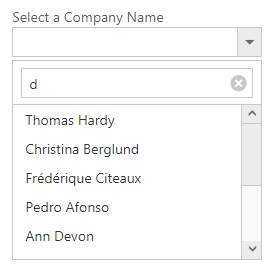
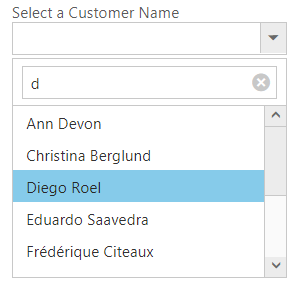
Filtering topic has been added.

Changed region(s): [[0.0291, 0.0, 0.9891, 0.9635], [0.0873, 0.7299, 0.5236, 0.7883], [0.0873, 0.8467, 0.5236, 0.9051]]

diff --git a/js-toc.html b/js-toc.html
@@ -486,7 +486,7 @@
             <li><a href="/js/dropdownlist/TemplateSupport">Template Support</a></li>
             <li><a href="/js/dropdownlist/Customization">Customization</a></li>
             <li><a href="/js/dropdownlist/SettingDimension">Setting Dimension</a></li>
-			<li><a href="/js/dropdownlist/ServerFiltering">Server Filtering</a></li>
+			<li><a href="/js/dropdownlist/Filtering">Filtering</a></li>
             <li><a href="/js/dropdownlist/StatePersistance">State Persistance</a></li>
             <li><a href="/js/dropdownlist/Localization">Localization</a></li>
             <li><a href="/js/dropdownlist/Accessibility">Accessibility</a></li>

diff --git a/js/DropDownList/Filtering.md b/js/DropDownList/Filtering.md
@@ -1,0 +1,154 @@
+---
+layout: post
+title: Searching in the DropDownList widget for Syncfusion Essential JS
+description: Description about searching in the DropDownList widget for Syncfusion Essential JS
+platform: js
+control: DropDownList
+documentation: ug
+keywords: DropDownList, dropdown, Search, Incremental Search, Filter Search, Server Filtering
+api: /api/js/ejdropdownlist
+---
+
+# Search
+
+Items are searched based on the keyed in values to the textbox. There are two types of searches,
+
+* Incremental Search
+* Filter Search
+
+## Incremental Search
+
+Selects the item in the popup list based on the keyed in value. If the time taken to type exceeds 1000 milliseconds then filtered items will be reset based on the current input value.For this search, [enableIncrementalSearch](https://help.syncfusion.com/api/js/ejdropdownlist#members:enableincrementalsearch) property must be enabled. By default this mode of search is enabled. Incremental search can be case sensitive or case insensitive. To make case sensitive, you can use [caseSensitiveSearch](https://help.syncfusion.com/api/js/ejdropdownlist#members:casesensitivesearch) property.
+
+{% highlight html %}
+
+    <input type="text" id="dropdown1" />
+                
+{% endhighlight %}
+
+{% highlight javascript %}
+
+     $(function() {
+        var items = [{
+            text: "Adams",
+            value: "emp1"
+        }, {
+            text: "James",
+            value: "emp2"
+        }, {
+            text: "Maria",
+            value: "emp3"
+        }, {
+            text: "Jessica",
+            value: "emp4"
+        }, {
+            text: "Jenneth",
+            value: "emp5"
+        }];
+        $('#dropdown1').ejDropDownList({
+            dataSource: items,
+            fields: {
+                text: "text",
+                value: "value"
+            },
+            enableIncrementalSearch: true,
+            caseSensitiveSearch: true
+        });
+    });
+	
+{% endhighlight %}
+
+![](Functionalities_images/Functionalities_img8.jpeg)
+
+## Filter search
+
+You can quickly locate specific item within a large data source by filtering matches with a search box. A text box appears in the popup list for searching when [enableFilterSearch](https://help.syncfusion.com/api/js/ejdropdownlist#members:enablefiltersearch) property is enabled. By default, filtering returns the matched items list based on text in search textbox. 
+You can configure the search filter by using [filterType](https://help.syncfusion.com/api/js/ejdropdownlist#members:filtertype) property. There is two types of filter options,
+
+* Starts With 
+* Contains
+
+N> Items are filtered based on “contains” filter type by default.
+
+{% highlight html %}
+
+    <input type="text" id="dropdown1" />
+                
+{% endhighlight %}
+
+{% highlight javascript %}
+
+    $(function() {
+        var items = [{
+            text: "Adams",
+            value: "emp1"
+        }, {
+            text: "James",
+            value: "emp2"
+        }, {
+            text: "Maria",
+            value: "emp3"
+        }, {
+            text: "Jessica",
+            value: "emp4"
+        }, {
+            text: "Jenneth",
+            value: "emp5"
+        }];
+        $('#dropdown1').ejDropDownList({
+            dataSource: items,
+            fields: {
+                text: "text",
+                value: "value"
+            },
+            enableFilterSearch: true,
+            filterType: "startsWith"
+        });
+    });
+    
+{% endhighlight %}
+
+![](Functionalities_images/Functionalities_img9.jpeg)
+
+## Server Filtering
+
+Server filtering for displaying only a fixed amount of dataset from the whole dataset. In general, DropDownList displays just the data returned from the server. This feature is convenient for you to apply when the user does not want to see the whole dataset in the popup wrapper.
+enableServerFiltering If set to true, the filtering operations performed in the remote service and returns the result.
+
+{% highlight html %}
+
+    <div class="control">
+        <div class="ctrllabel">Select a Customer Name</div>
+        <input type="text" id="customerList" />
+    </div>
+    <script type="text/javascript">
+	
+        var customerList = ej.DataManager({url:"http://js.syncfusion.com/ejServices/Wcf/Northwind.svc/Customers", crossDomain: true});
+		
+        var controlProperty = 
+        {
+            dataSource: customerList , 
+            fields : { text: "ContactName", value: 'ContactName'  }, 
+            itemsCount : 10 , 
+            popupHeight: "200px",
+            width: "250px",
+            enableFilterSearch: true,
+            enableServerFiltering: true
+        };
+	
+        $(function () 
+		{
+			$('#customerList').ejDropDownList(controlProperty);
+			 
+		});
+
+    </script>
+
+{% endhighlight %}
+
+![](ServerFiltering_images/ServerFiltering_image2.png)
+
+This sample raises the query on Customer service. Returns ContactName records for customers with ContactName containing the string “d”.
+
+![](ServerFiltering_images/ServerFiltering_image1.png)
+

diff --git a/js/DropDownList/Functionalities.md b/js/DropDownList/Functionalities.md
@@ -898,107 +898,6 @@ First two DropDownList cascaded based on the parentId, and then from second to t
 
 ![](Functionalities_images/multipCascade.png)
 
-## Search
-
-Items are searched based on the keyed in values to the textbox. There are two types of searches,
-
-* Incremental Search
-* Filter Search
-
-### Incremental Search
-
-Selects the item in the popup list based on the keyed in value. If the time taken to type exceeds 1000 milliseconds then filtered items will be reset based on the current input value.For this search, [enableIncrementalSearch](https://help.syncfusion.com/api/js/ejdropdownlist#members:enableincrementalsearch) property must be enabled. By default this mode of search is enabled. Incremental search can be case sensitive or case insensitive. To make case sensitive, you can use [caseSensitiveSearch](https://help.syncfusion.com/api/js/ejdropdownlist#members:casesensitivesearch) property.
-
-{% highlight html %}
-
-    <input type="text" id="dropdown1" />
-                
-{% endhighlight %}
-
-{% highlight javascript %}
-
-     $(function() {
-        var items = [{
-            text: "Adams",
-            value: "emp1"
-        }, {
-            text: "James",
-            value: "emp2"
-        }, {
-            text: "Maria",
-            value: "emp3"
-        }, {
-            text: "Jessica",
-            value: "emp4"
-        }, {
-            text: "Jenneth",
-            value: "emp5"
-        }];
-        $('#dropdown1').ejDropDownList({
-            dataSource: items,
-            fields: {
-                text: "text",
-                value: "value"
-            },
-            enableIncrementalSearch: true,
-            caseSensitiveSearch: true
-        });
-    });
-	
-{% endhighlight %}
-
-![](Functionalities_images/Functionalities_img8.jpeg)
-
-### Filter search
-
-You can quickly locate specific item within a large data source by filtering matches with a search box. A text box appears in the popup list for searching when [enableFilterSearch](https://help.syncfusion.com/api/js/ejdropdownlist#members:enablefiltersearch) property is enabled. By default, filtering returns the matched items list based on text in search textbox. 
-You can configure the search filter by using [filterType](https://help.syncfusion.com/api/js/ejdropdownlist#members:filtertype) property. There is two types of filter options,
-
-* Starts With 
-* Contains
-
-N> Items are filtered based on “contains” filter type by default.
-
-{% highlight html %}
-
-    <input type="text" id="dropdown1" />
-                
-{% endhighlight %}
-
-{% highlight javascript %}
-
-    $(function() {
-        var items = [{
-            text: "Adams",
-            value: "emp1"
-        }, {
-            text: "James",
-            value: "emp2"
-        }, {
-            text: "Maria",
-            value: "emp3"
-        }, {
-            text: "Jessica",
-            value: "emp4"
-        }, {
-            text: "Jenneth",
-            value: "emp5"
-        }];
-        $('#dropdown1').ejDropDownList({
-            dataSource: items,
-            fields: {
-                text: "text",
-                value: "value"
-            },
-            enableFilterSearch: true,
-            filterType: "startsWith"
-        });
-    });
-    
-{% endhighlight %}
-
-![](Functionalities_images/Functionalities_img9.jpeg)
-
 ## Validation
 
 You can validate the DropDownList value on form submission by applying “validationRules” and “validationMessage” to the DropDownList. 
